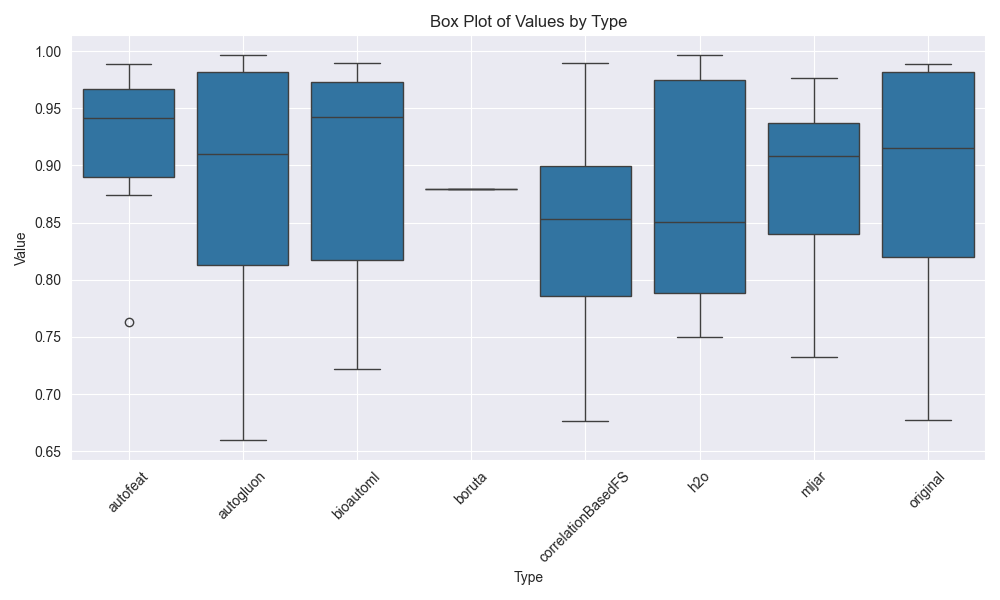
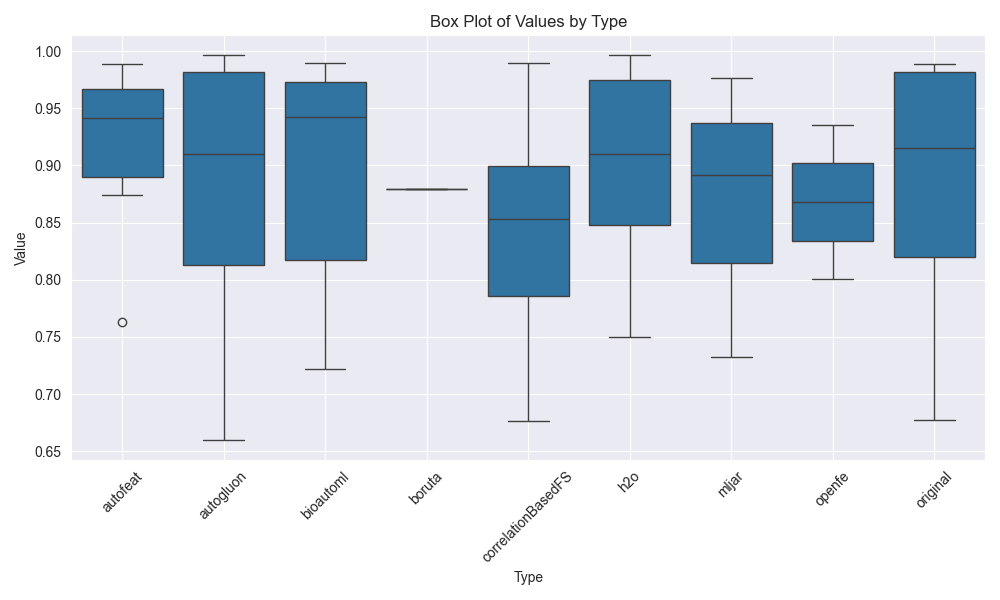
Update main and analysis for OpenFE

diff --git a/src/amltk/main.py b/src/amltk/main.py
@@ -86,8 +86,8 @@ lgbm_regressor_pipeline = Sequential(preprocessing, lgbm_regressor, name="lgbm_r
 
 
 def main() -> None:
-    rerun = False                                # Decide if you want to re-execute the methods on a dataset or use the existing files
-    debugging = False                            # Decide if you want ot raise trial exceptions
+    rerun = True                                # Decide if you want to re-execute the methods on a dataset or use the existing files
+    debugging = True                            # Decide if you want ot raise trial exceptions
     feat_eng_steps = 2                          # Number of feature engineering steps for autofeat
     feat_sel_steps = 5                          # Number of feature selection steps for autofeat
     working_dir = Path("src/amltk/results")   # Path if running on Cluster
@@ -173,7 +173,7 @@ def main() -> None:
                     safe_dataframe(df_xxx, working_dir, name, fold, "openfe")
             except Exception as e:
                 print(str(option) + ": " + str(e))
-
+            os.remove("openfe_tmp_data.feather")
 
 if __name__ == "__main__":
     main()
